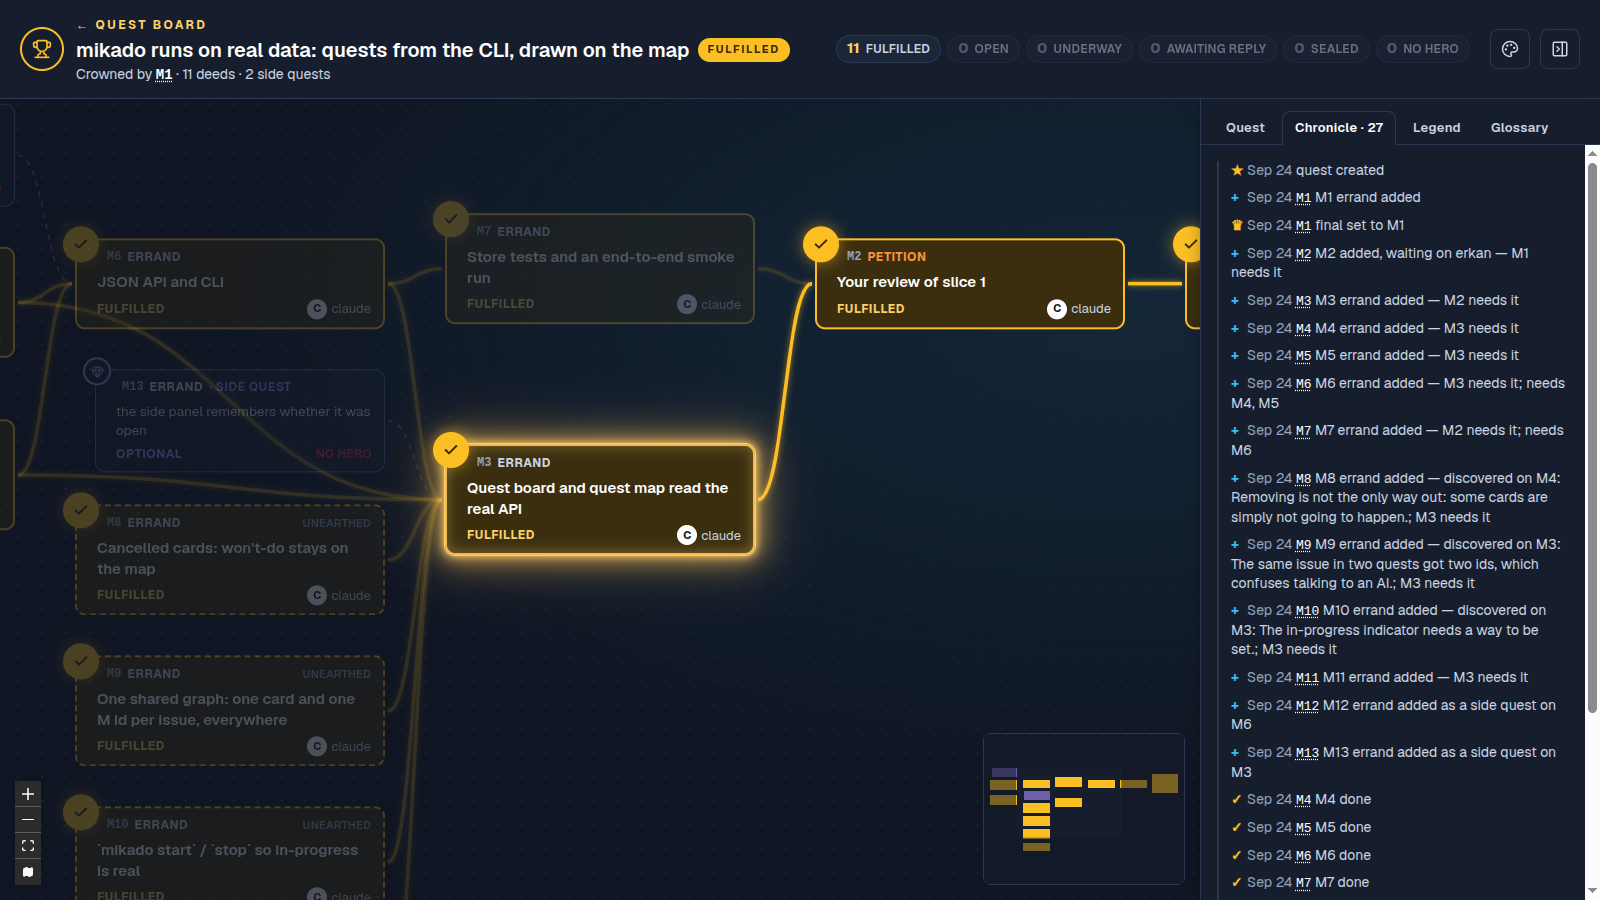
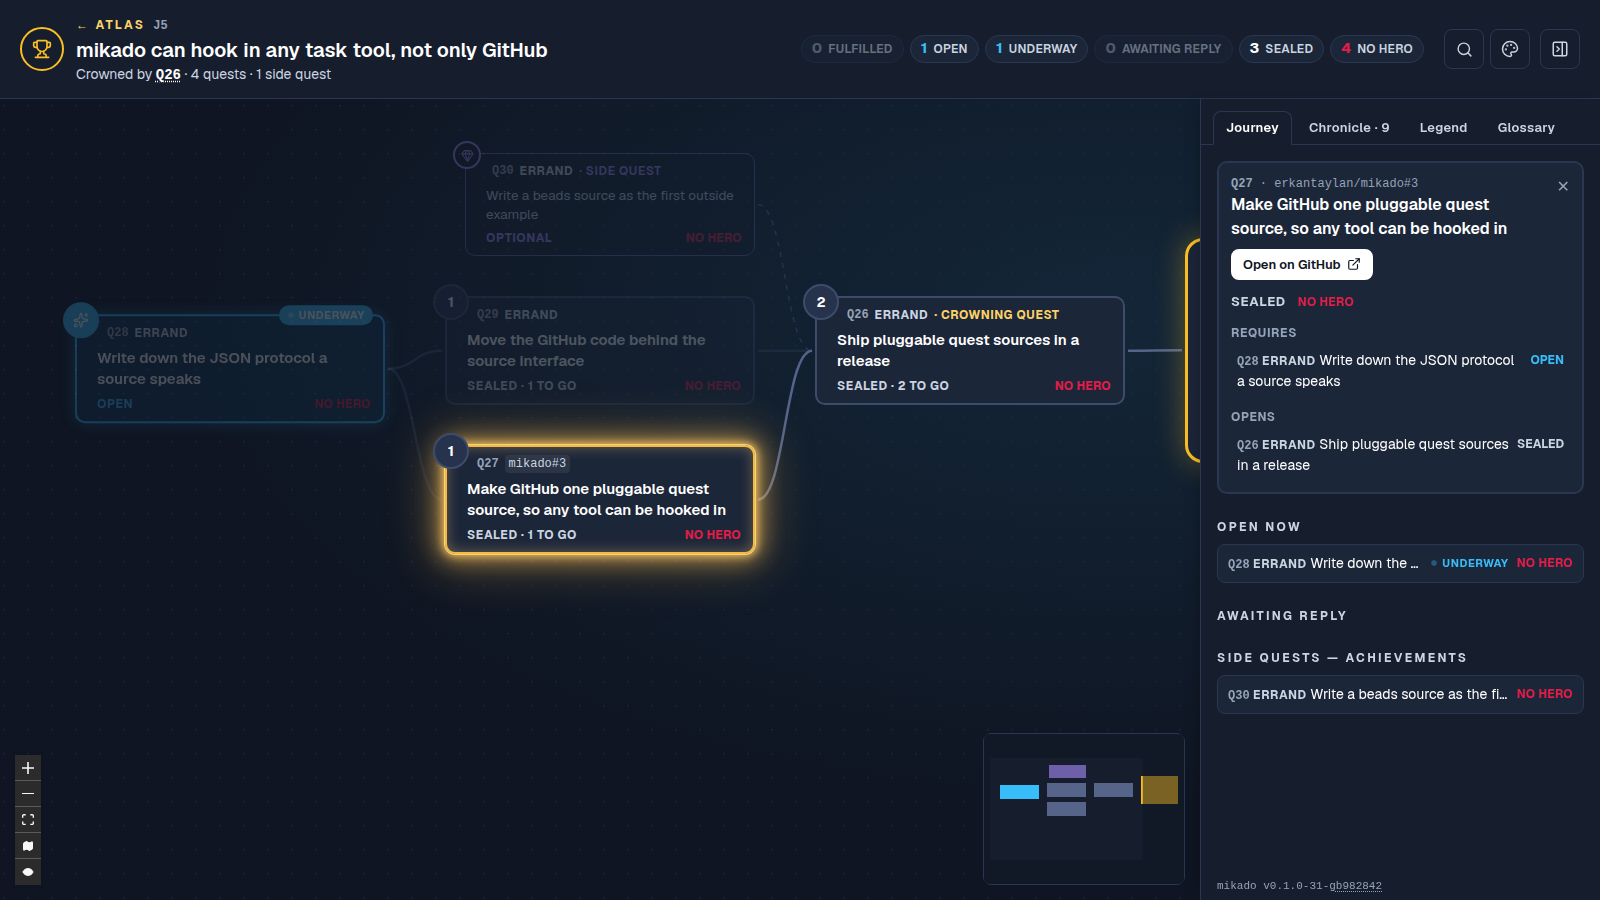
docs: retake the screenshots with the Atlas, journeys and Q keys
A demo dataset (an omelette, a brunch waiting on it, a home office, a
typing goal and a mikado journey) instead of real journeys, so the
README shows goals with and without code.

diff --git a/README.md b/README.md
@@ -23,7 +23,7 @@ across projects, people and plain life, so the end goal stays in view while side
 | The Atlas | Glossary tab |
 |---|---|
 | ![Atlas](docs/screenshots/board.png) | ![Glossary](docs/screenshots/glossary.png) |
-| **Midnight theme** | **War table theme** <!-- screenshot to retake: war table --> |
+| **Midnight theme** | **War table theme** |
 | ![Midnight theme](docs/screenshots/midnight.png) | ![War table theme](docs/screenshots/medieval.png) |
 
 **The words** — journey, atlas, chart, quest (or task), crowning quest, requires/opens, petition,
